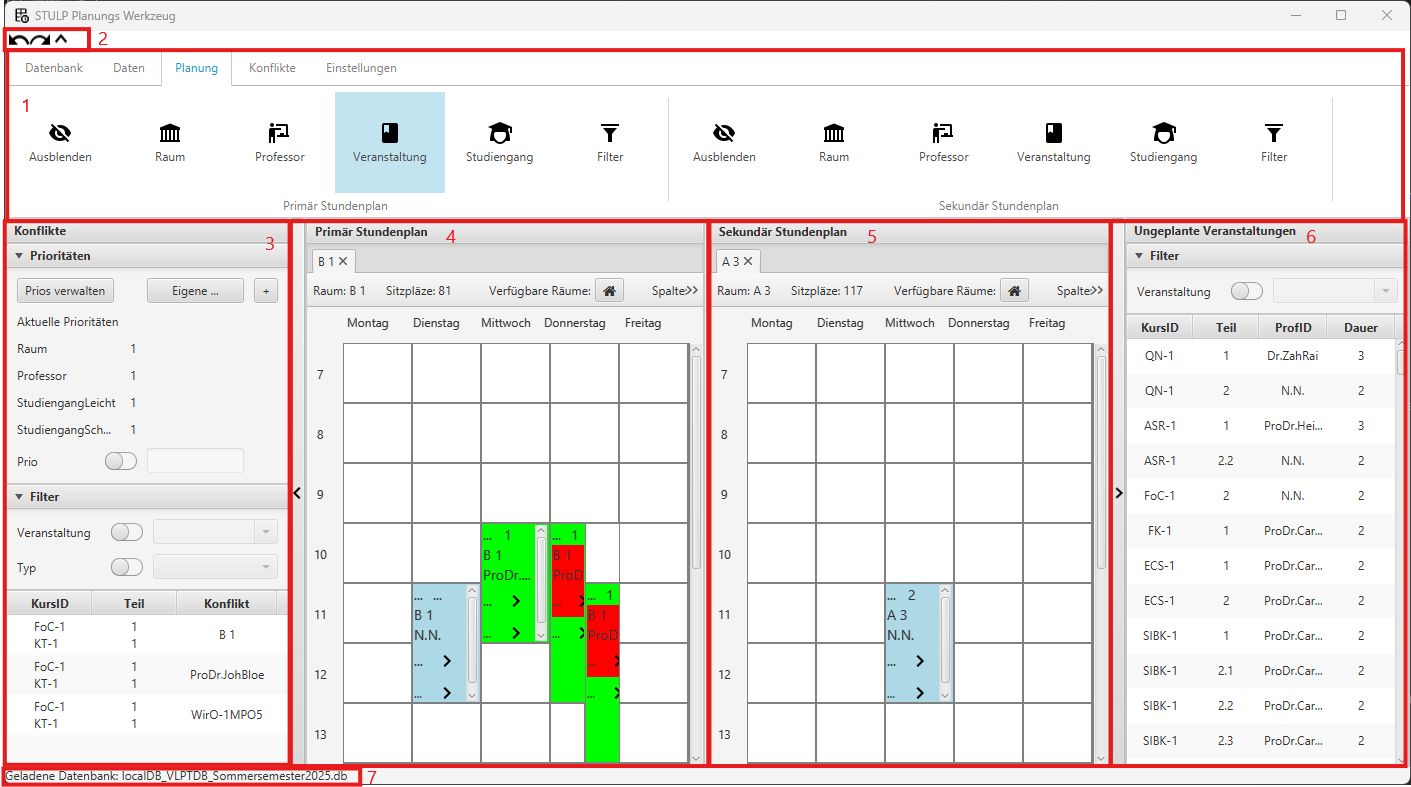
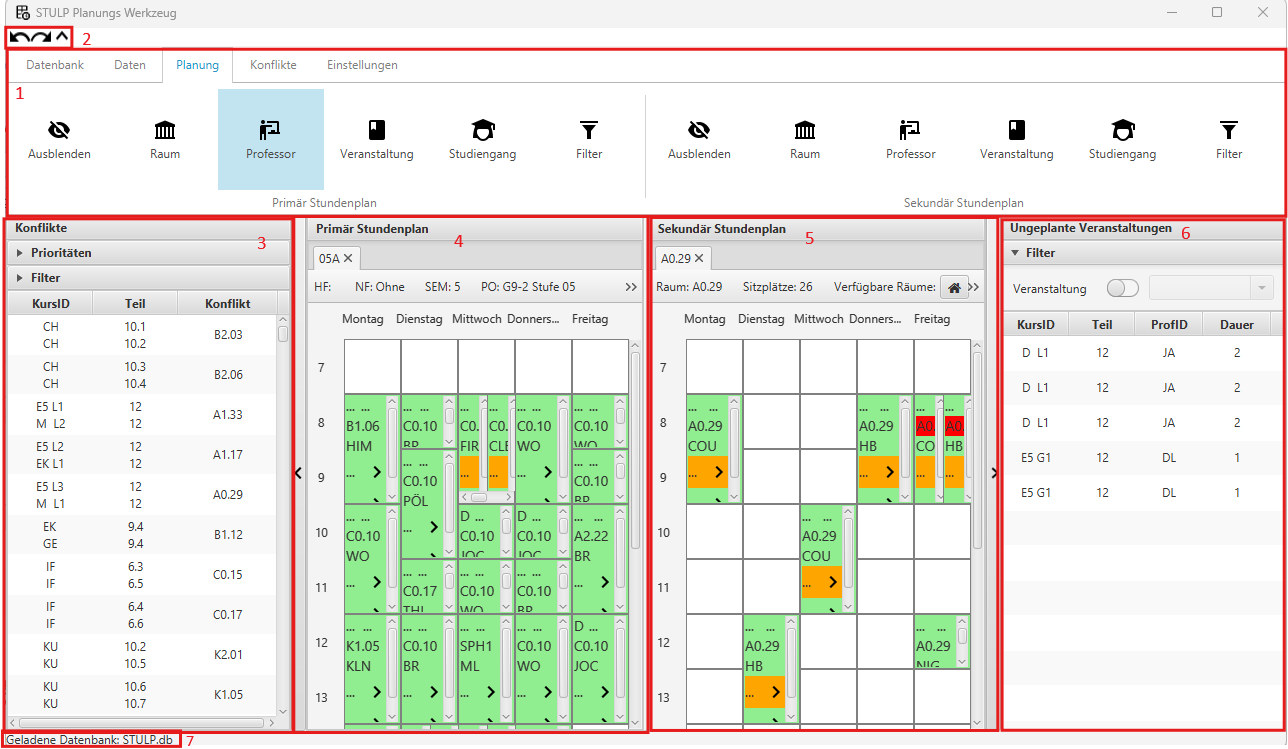
Fast fertig mit Screenshots

diff --git a/PUSS DOKU/Benutzerhandbuch/Kapitel/local_progam.tex b/PUSS DOKU/Benutzerhandbuch/Kapitel/local_progam.tex
@@ -30,12 +30,14 @@ Auf Windows kann die jeweilige jar-Dateien  mittels eines Doppelklicks ausgefüh
 Auf Linux sollte das jeweilige Programm über die Kommandozeile mittels des Befehls \texttt{java -jar Planunungstool.jar} bzw. \texttt{java -jar Paultool.jar} ausgeführt werden. 
 \subsection{Übertragung eines bestehenden Stundenplans von Untis in das lokale Planungstool}
 
-Falls bereits ein Stundenplan in Untis existiert, kann dieser importiert werden. Dafür exportieren wir die Daten aus UNTIS in sogenannte DIF-Dateien (Data Interchange Format). Dies sind strukturierte Textdateien, die anschließend vom lokalen Planungstool eingelesen werden.
+Falls bereits ein Stundenplan in Untis existiert, kann dieser importiert werden. 
+Dafür exportieren wir die Daten aus UNTIS in sogenannte DIF-Dateien (Data Interchange Format). 
+Dies sind strukturierte Textdateien, die anschließend durch das Skript \todo{Name Einfügen} in das Format der lokalen Planungsdatenbank umgewandelt werden können.
 
 Es gibt zwei Wege, diese Dateien zu erstellen:
 \begin{enumerate}
     \item Direkter Export aus der UNTIS Benutzeroberfläche (GUI)
-    \item Export via Command Line Interface (CLI) – für fortgeschrittene Planer
+    \item Export via Command Line Interface (CLI)
 \end{enumerate}
 
 Die erste Methode erfordert keine tiefgehenden technischen Kenntnisse. Die zweite Methode bietet hingegen den Vorteil, dass alle benötigten DIF-Dateien automatisiert in einem Rutsch exportiert werden können.
@@ -205,11 +207,11 @@ Für den Planer bedeutet das, dass diese Konflikte nicht mehr in der Tabelle und
 \paragraph{Konfliktabelle}\label{par:conf_table}
 Die Tabelle 1 in Abbildung \ref{fig:plt_conflicts} zeigt alle momentan existierenden nicht ignorierten Konflikte an. 
 Dabei repräsentiert eine Zeile der Tabelle exakt einen Konflikt zwischen zwei Veranstaltungen.
-Für einen Konflikt werden jeweils die KursID in der Spalte KursID und der Veranstaltungsteil in der Spalte Teil der beteiligten Veranstaltungsteile angezeigt \todo{Umschreiben}
+Für einen Konflikt werden jeweils die KursID in der Spalte KursID und die Klasse koodiert als Veranstaltungsteil in der Spalte Teil der beteiligten Veranstaltungsteile angezeigt.
 Zusätzlich wird in der Spalte Konflikt das Konfliktobjekt angezeigt. 
 Dieses Konfliktobjekt ist entweder ein Lehrer, ein Raum oder ein Klasse.
-Die erste Zeile der Tabelle in Abbildung \ref{fig:plt_conflicts} Teil 1 zeigt zum Beispiel den Konflikt zwischen der Veranstaltung  \textit{FoC Veranstaltungsteil 1} und der Veranstaltung \textit{KT Veranstaltungsteil 1} an. \todo{Andere Beispiele einfügen}
-Der Konflikt ist ein Raumkonflikt für den Raum mit der Raumnummer \textit{B1}.
+Die erste Zeile der Tabelle in Abbildung \ref{fig:plt_conflicts} Teil 1 zeigt zum Beispiel den Konflikt zwischen der Veranstaltung  \textit{Chemie in der 10A} und der Veranstaltung \textit{Chemie in der 10B} an. 
+Der Konflikt ist ein Raumkonflikt für den Raum mit der Raumnummer \textit{B2.03}.
 Mittels der Konflikttabelle können angezeigte Konflikte ignoriert werden. 
 Dazu muss lediglich mittels eines Rechtsklicks auf die Zeile des Konflikts das Kontextmenü geöffnet werden und der Menüpunkt \textbf{Ignorieren} ausgewählt werden. 
 Zudem kann der Stundenplan des Konfliktobjekts aufgerufen werden. 
@@ -250,21 +252,20 @@ Wenn im Plan nur die Konflikte mit einer Priorität größer als 3 (also Priorit
 \paragraph{Eigene Konflikte}
 Es besteht die Möglichkeit im Tool per SQL-Query eigene Konflikte zu definieren. 
 Diese existieren dann zusätzlich zu den standardmäßig unterstützten Konflikttypen. 
-Beispielsweise kann ein Konflikt \textbf{WunschOrt} definiert werden, der auftritt, falls eine Veranstaltung für die Fürstenallee geplant wird, obwohl als Wunschort Campus angegeben ist. \todo{Dieses Beispiel auf Schule anpassen}
+Beispielsweise kann ein Konflikt \textbf{WunschOrt} definiert werden, der auftritt, falls eine Veranstaltung für das Gebäude F geplant wird, obwohl als Wunschort ein anderes Gebäude angegeben ist.
 Diese Funktion birgt Risiken für den Benutzer, da die Queries bestimmte Eigenschaften erfüllen müssen. 
 \textbf{Besteht der Wunsch diese Funktion zu nutzen, lesen Sie sich auch die Implementations Dokumentation durch.} 
 Als Beispiel: \texttt{SELECT * FROM Plan WHERE Raumnr NOT LIKE 'F\%' AND Ort = 1 AND Raumnr NOT LIKE 'kein Raum'}. 
-Diese Query wählt alle Plan-Einträge aus, deren Raumnummer nicht mit "F" beginnt (Demnach nicht in der Fürstenallee geplant wurden), jedoch als Wunschort (Ort) die Fürstenalle (Wert 1) angegeben haben. 
-Sollen auch Konflikte angezeigt werden, wenn Veranstaltungen im Campus gewünscht sind, dort jedoch nicht geplant wurden, kann die Query um diese Bedingung erweitert werden. 
+Diese Query wählt alle Plan-Einträge aus, deren Raumnummer nicht mit "F" beginnt (Demnach nicht im F Gebäude geplant wurden), jedoch als Wunschort (Ort) das F Gebäude (Wert 1) angegeben haben. 
 Ein solcher Konflikt kann entweder im Konflikt-Menü in Abbildung \ref{fig:plt_conflict_menu} unter \textbf{Eigenen Konflikt hinzufügen} hinzugefügt werden oder in Abbildung \ref{fig:plt_conflicts} über das \textbf{+}. 
 Über das sich öffnende Fenster in Abbildung \ref{fig:plt_add_custom_conflict} kann der Konflikttyp dann eingegeben werden. \\
-
+\todo{Hier überlegen, ob wir als Beispiel vielleicht doch Raum zu klein nehmen sollten}
 \begin{figure}[htbp]
     \centering
     \begin{minipage}{0.5\textwidth}
         \centering
         \caption{Eigenen Konflikttyp erstellen}
-        \includegraphics[scale=0.5]{images/planning_tool/add_custom_conflict.png}
+        \includegraphics[scale=0.4]{images/planning_tool/add_custom_conflict.png}
         
         \label{fig:plt_add_custom_conflict}
     \end{minipage}
@@ -272,7 +273,7 @@ Ein solcher Konflikt kann entweder im Konflikt-Menü in Abbildung \ref{fig:plt_c
     \begin{minipage}{0.4\textwidth}
         \centering
         \caption{Konflikte Menü}
-        \includegraphics[scale=0.5]{images/planning_tool/conflict_menu.png}
+        \includegraphics[scale=0.4]{images/planning_tool/conflict_menu.png}
         
         \label{fig:plt_conflict_menu}
     \end{minipage}
@@ -316,7 +317,6 @@ Die Knöpfe haben die folgenden Funktionen (von oben nach unten):
 	\item unignoriert alle Konflikte aus Konflikttabelle 3
 \end{enumerate}
 Die Veränderungen können mittels \textbf{Annehmen} gespeichert oder \textbf{Abbrechen} verworfen werden.
-\todo{Screenshots überarbeiten, wenn fertig.}
 \begin{figure}[htbp]
     \centering
     \begin{minipage}{0.45\textwidth}
@@ -353,8 +353,8 @@ Die Tabelle kann mithilfe eines Filters nach Veranstaltungen gefiltert werden.
 Die Tabelle 1 in \ref{fig:plt_unplanned} zeigt alle momentan ungeplanten Veranstaltung an, also diejenigen, die keinen Raum, Tag und Uhrzeit haben.
 Dabei repräsentiert eine Zeile der Tabelle exakt einen ungeplante Veranstaltung. 
 Für einen ungeplanten Veranstaltung wird die KursID in der Spalte KursID, der Veranstaltungsteil in der Spalte Teil, der Professor in der Spalte ProfID und die Dauer der Veranstaltung in der Spalte Dauer angezeigt.\\ 
-Die erste Zeile der Tabelle in Abbildung \ref{fig:plt_unplanned} zeigt zum Beispiel die ungeplante Veranstaltung GP Veranstaltungsteil 1 gehalten vom Lehrer mit der ProfID HK. 
-Die Veranstaltung dauert eine Stunde. \todo{Hier vielleicht anpassung des Beispiels nicht notwendig}
+Die erste Zeile der Tabelle in Abbildung \ref{fig:plt_unplanned} zeigt zum Beispiel die ungeplante Veranstaltung D L1 in der Q1 gehalten vom Lehrer mit der ProfID JA. 
+Die Veranstaltung dauert zwei Schulstunden.
 \paragraph{Filtern der Ungeplanten Veranstaltungstabelle}
 Die Tabelle kann mittels des Filters 2 in \ref{fig:plt_unplanned} gefiltert werden.  
 % Es steht ein Veranstaltungsfilter zur Verfügung. 
@@ -363,7 +363,7 @@ Die Tabelle kann mittels des Filters 2 in \ref{fig:plt_unplanned} gefiltert werd
 Ein Filter ist aktiv, sobald der Kippschalter des Filters sich in der rechten Stellung befindet und eine gültige Eingabe für den Wert des Filters ausgewählt wird. 
 Ein Filter ist deaktiviert, sobald sich der Kippschalter des Filters in der linken Stellung befindet. 
 Durch Klicken auf den Kippschalter kann die Stellung verändert werden. 
-In \ref{fig:plt_unplanned} ist zum Beispiel der Veranstaltungsfilter aktiv und es wird nach Veranstaltungsteilen mit der KursID GP gefiltert. \todo{Beispiel überarbeiten}
+In \ref{fig:plt_unplanned} ist zum Beispiel der Veranstaltungsfilter aktiv und es wird nach Veranstaltungsteilen mit der KursID D L1 gefiltert.
 
 
 \subsubsection{Planen von Veranstaltungen}
@@ -379,9 +379,9 @@ Die Planungssoftware unterstützt 5 verschiedene Stundenplantypen. Jeder Stunden
 		\hline
 		Typ & Angezeigte Veranstaltungen\\\hline
 		Raum & Veranstaltungen, die in dem Raum stattfinden\\
-		Professor& Veranstaltungen, die vom Professor gehalten werden\\
-		Studiengang& Veranstaltungen, die Teil des Studiengangs sind\\
-		Veranstaltung & Veranstaltungen, die zu der Veranstaltung gehören\\
+		Professor& Veranstaltungen, die vom Lehrer gehalten werden\\
+		Studiengang& Veranstaltungen, die von einer Klasse besucht werden\\
+		Veranstaltung & Veranstaltungen, die von diesem Typ gehalten werden\\
 		Filter &  beliebige Veranstaltungen, die mittels Filtern aus den anderen Stundenplantypen erstellt werden können  \\\hline
 	\end{tabular}
 \end{table}
@@ -438,13 +438,14 @@ Die Knöpfe, zu sehen in  Abbildung  \ref{fig:plt_menu_plan}, bieten die folgend
 \begin{wrapfigure}{r}{0.4\textwidth}
     \centering
 	\caption{Auswahl Stundenplantab}
-	\includegraphics[scale=0.4]{images/planning_tool/menu_plan_popup.png}
+	\includegraphics[scale=0.6]{images/planning_tool/menu_plan_popup.png}
 	\label{fig:plt_plan_popup}
 \end{wrapfigure}
 
 Beim Öffnen eines Raum-, Professor-, Veranstaltung- oder Studiengang-Stundenplantabs muss zusätzlich mittels eines Menüs, 
 zu sehen in Abbildung \ref{fig:plt_plan_popup}, das Objekt des Stundenplans ausgewählt werden. 
-Dazu muss lediglich das gewünschte Objekt in der Liste ausgewählt werden und die Auswahl mittels des Knopfes \textbf{Öffne Stundenplan} bestätigt werden.\\
+Dazu muss lediglich das gewünschte Objekt in der Liste ausgewählt werden und die Auswahl mittels des Knopfes \textbf{Öffne Stundenplan} bestätigt werden.
+Um die Übersicht zu erleichtern kann über das Suchfeld nach einem speziellen Objekt gesucht werden.\\
 In Abbildung \ref{fig:plt_pimary_plan} ist eine Beispielabbildung für das primäre Stundenplanfenster zu sehen (die Planung mit dem sekundären Stundenplanfenster ist analog).
 Die derzeit geöffneten Stundeplantabs können in der Leiste in 1 gesehen werden. 
 Mittels Klick auf das Tab wird der jeweilige Stundenplan des Objekts geöffnet. 
@@ -489,8 +490,8 @@ Die folgenden Informationen werden im Rechteck für einen Veranstaltung in Abbil
 \begin{enumerate}
 	\item KursID und Nummer der Veranstaltung
 	\item Raum, in dem die Veranstaltung stattfindet
-	\item ProfID des Professors, der die Veranstaltung hält
-	\item Studiengänge, zu denen die Veranstaltung gehört. Falls der Veranstaltung zu mehr als einem Studiengang gehört, 
+	\item ProfID des Lehrers, der die Veranstaltung hält
+	\item Klassen, zu denen die Veranstaltung gehört. Falls der Veranstaltung zu mehr als einem Klasse gehört, 
 	lässt sich mittels des Pfeils eine Liste aller betroffenen Studiengänge anzeigen 
  \item Anzeige ob für diesen Veranstaltung ein Konflikt existiert, dessen Konflikttyp manuell hinzugefügt wurde. Falls ein Konflikt existiert, wird dieses Feld farblich hervorgehoben
 \end{enumerate}
@@ -515,21 +516,18 @@ Die folgenden Informationen werden im Rechteck für einen Veranstaltung in Abbil
 	\begin{subfigure}{0.3\linewidth}
     \centering
 	\caption{}
-	\includegraphics[scale=0.6]%{images/planning_tool/plan_multiple.png}
+	\includegraphics[scale=0.3]%{images/planning_tool/plan_multiple.png}
     {images/planning_tool/pic03.png}
 	\label{fig:plt_multiple}
 \end{subfigure}
 \end{figure}
 
 Je nach Veranstaltungsart wird das Rechteck mit einer anderen Farbe ausgefüllt. 
-Wenn für Raum, Professor oder einen der Studiengänge ein Konflikt vorliegt wird dieser farbig hinterlegt. 
+Wenn für Raum, Lehrer oder ein der Klassen ein Konflikt vorliegt wird dieser farbig hinterlegt. 
 Standardmäßig  wird  rot für einen schweren und gelb für einen leichten Konflikt genutzt.
 Das Rechteck in Abbildung \ref{fig:plt_single_conflict} visualisiert somit die folgenden Informationen über die Veranstaltung. 
-Die Verstanstaltung des Veranstaltungsteils ist \textit{DuA-1}. Es ist der zweite Veranstaltungsteil von DuA-1. 
-Der Veranstaltungsteil wird im Raum mit der Raumnummer \textit{L 1} gegeben. 
-Der Veranstaltungsteil wird von dem Professor \textit{ProfDr.SevGha} gegeben. 
-Der Veranstaltungsteil ist Teil des Studiengangs \textit{CEB-2BPO3}. \todo{Beispiel überarbeiten}
-Zudem existiert für den Veranstaltungsteil ein schwerer Raum- und ein schwerer Studiengangskonflikt.
+Die Veranstaltung \textit{D 9.4} findet im Raum \textit{B1.12} statt, wir von dem Lehrer mit der ProfID \textit{AM} gehalten und gehört zu der Klasse \textit{09D}.
+Zudem existiert für die Veranstaltung ein leichter Studiengangskonflikt.
 Wenn mehrere Veranstaltungsteile einer Zelle des Stundenplans zugeordnet sind, werden diese nebeneinander angezeigt. So zu sehen in \ref{fig:plt_multiple}. \\
 
 Die Start- und Endzeit des Stundenplans kann frei konfiguriert werden. Mehr dazu in \autoref{par:settings_time}. 
@@ -537,7 +535,7 @@ Daher kann es passieren, dass Veranstaltungen nur teilweise oder gar nicht angez
 Falls ein Veranstaltung nur partiell angezeigt wird, erscheint ein Warndreieck im zugehörigen Rechteck. 
 Zudem erscheint ein rotes Warndreieck in der linken oberen Ecke des Stundenplans, falls ein Veranstaltung existiert die nur partiell oder gar nicht angezeigt wird. 
 Beide Indikatoren sind in \autoref{fig:plt_agenda_indicator} zu sehen. 
-Der Veranstaltungsteil \textit{DuA-1 1} geht von 8 bis 10 Uhr. \todo{Beispiel auf Schule anpassen} 
+Der Veranstaltungsteil \textit{M 9.4} geht von 8 bis 10 Uhr.
 Da der Stundenplan allerdings erst um 9 Uhr beginnt, wird die Veranstaltung nur partiell angezeigt.
 
 \begin{figure}[ht]
@@ -551,7 +549,7 @@ Da der Stundenplan allerdings erst um 9 Uhr beginnt, wird die Veranstaltung nur 
 Durch Rechtsklick auf eine Veranstaltung öffnet sich ein Kontextmenü. 
 Mittels des Kontextmenüs kann sofort der Stundenplan der Veranstaltung, des Professors, des Raumes oder des Studiengangs geöffnet werden.\\
 Falls der Stundenplantyp Professor ist, werden zusätzlich zu den Rechtecken für die Veranstaltungen, 
-ebenfalls die Sperrzeiten des Professors im Stundenplan mittels dunkelroten Rechtecken in den jeweiligen Zellen angezeigt. 
+ebenfalls die Sperrzeiten des Lehrers im Stundenplan mittels dunkelroten Rechtecken in den jeweiligen Zellen angezeigt. 
 Die Anzeige von Sperrzeiten in einem Stundenplan ist in \ref{fig:plt_plan_wunsch_sperr} zu sehen. 
 
 \paragraph{Verfügbare Räume Spalten}\label{par:available_rooms}
